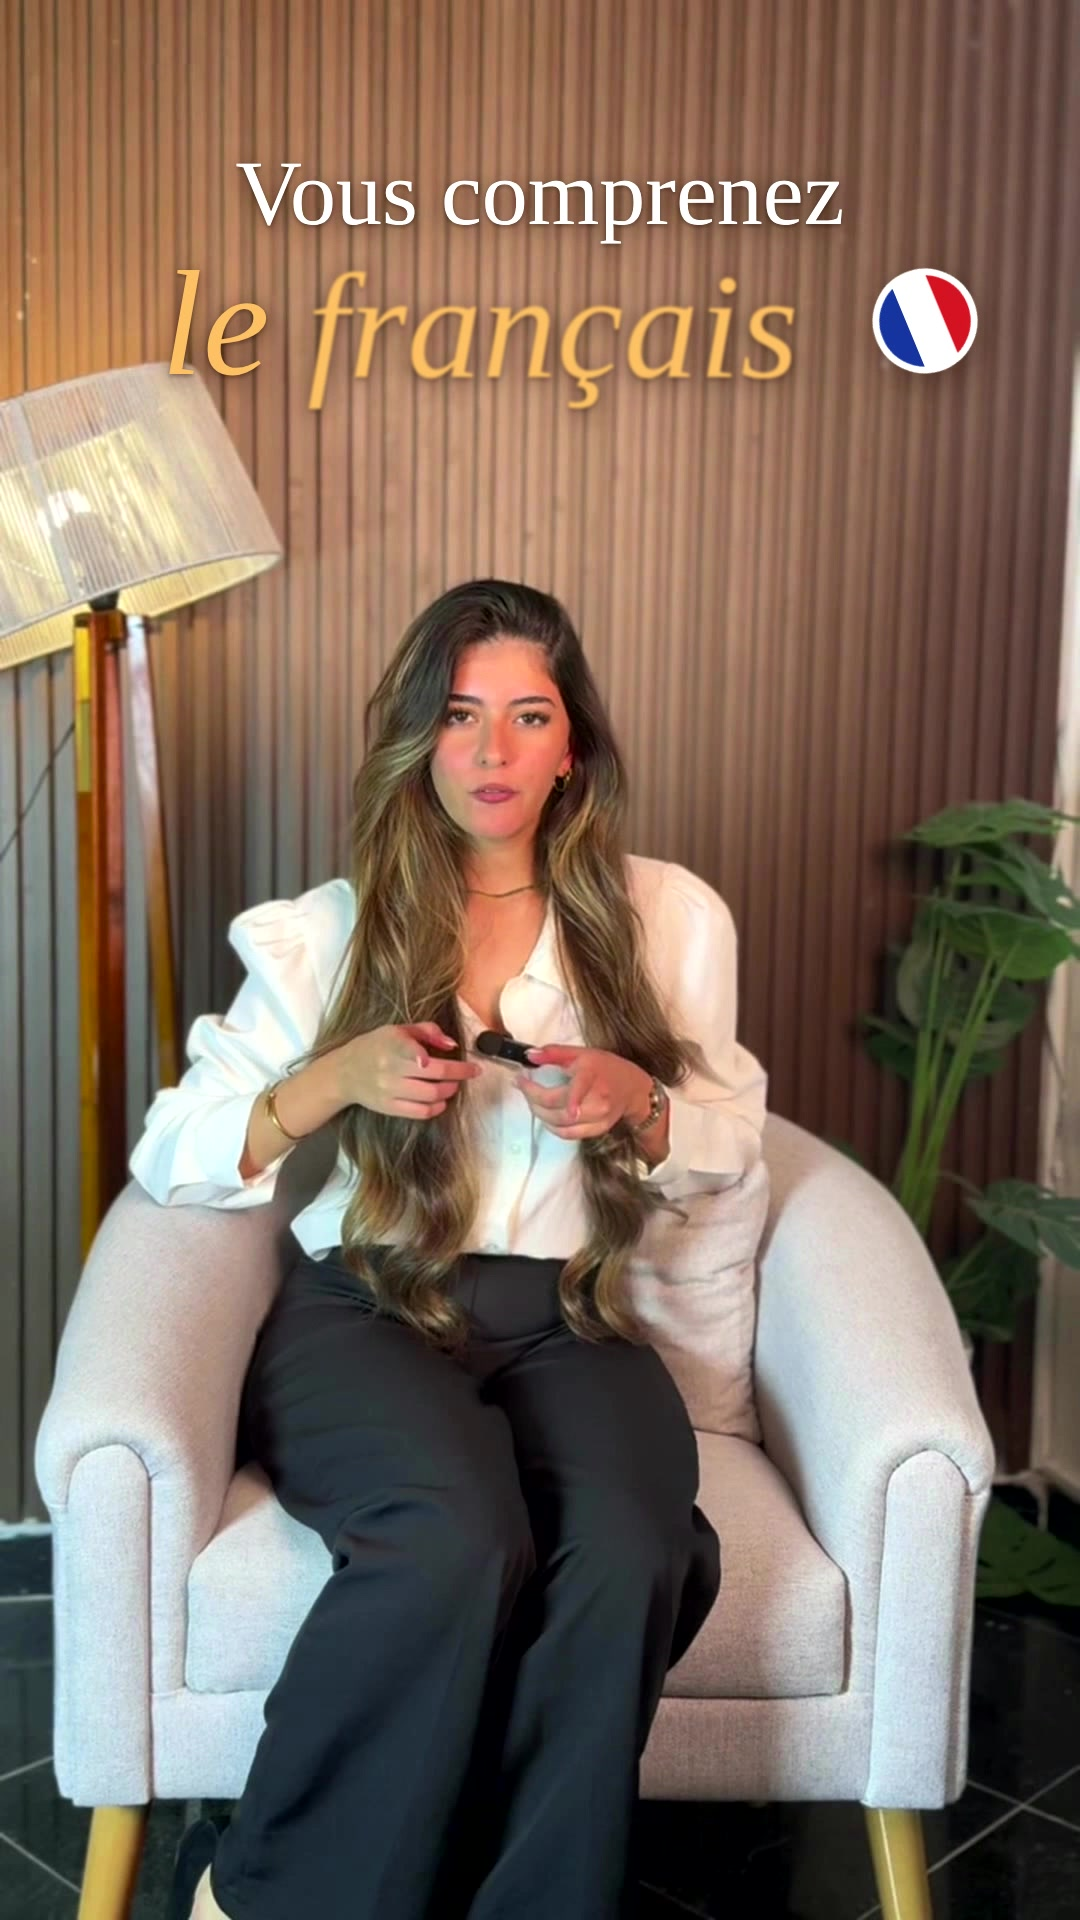
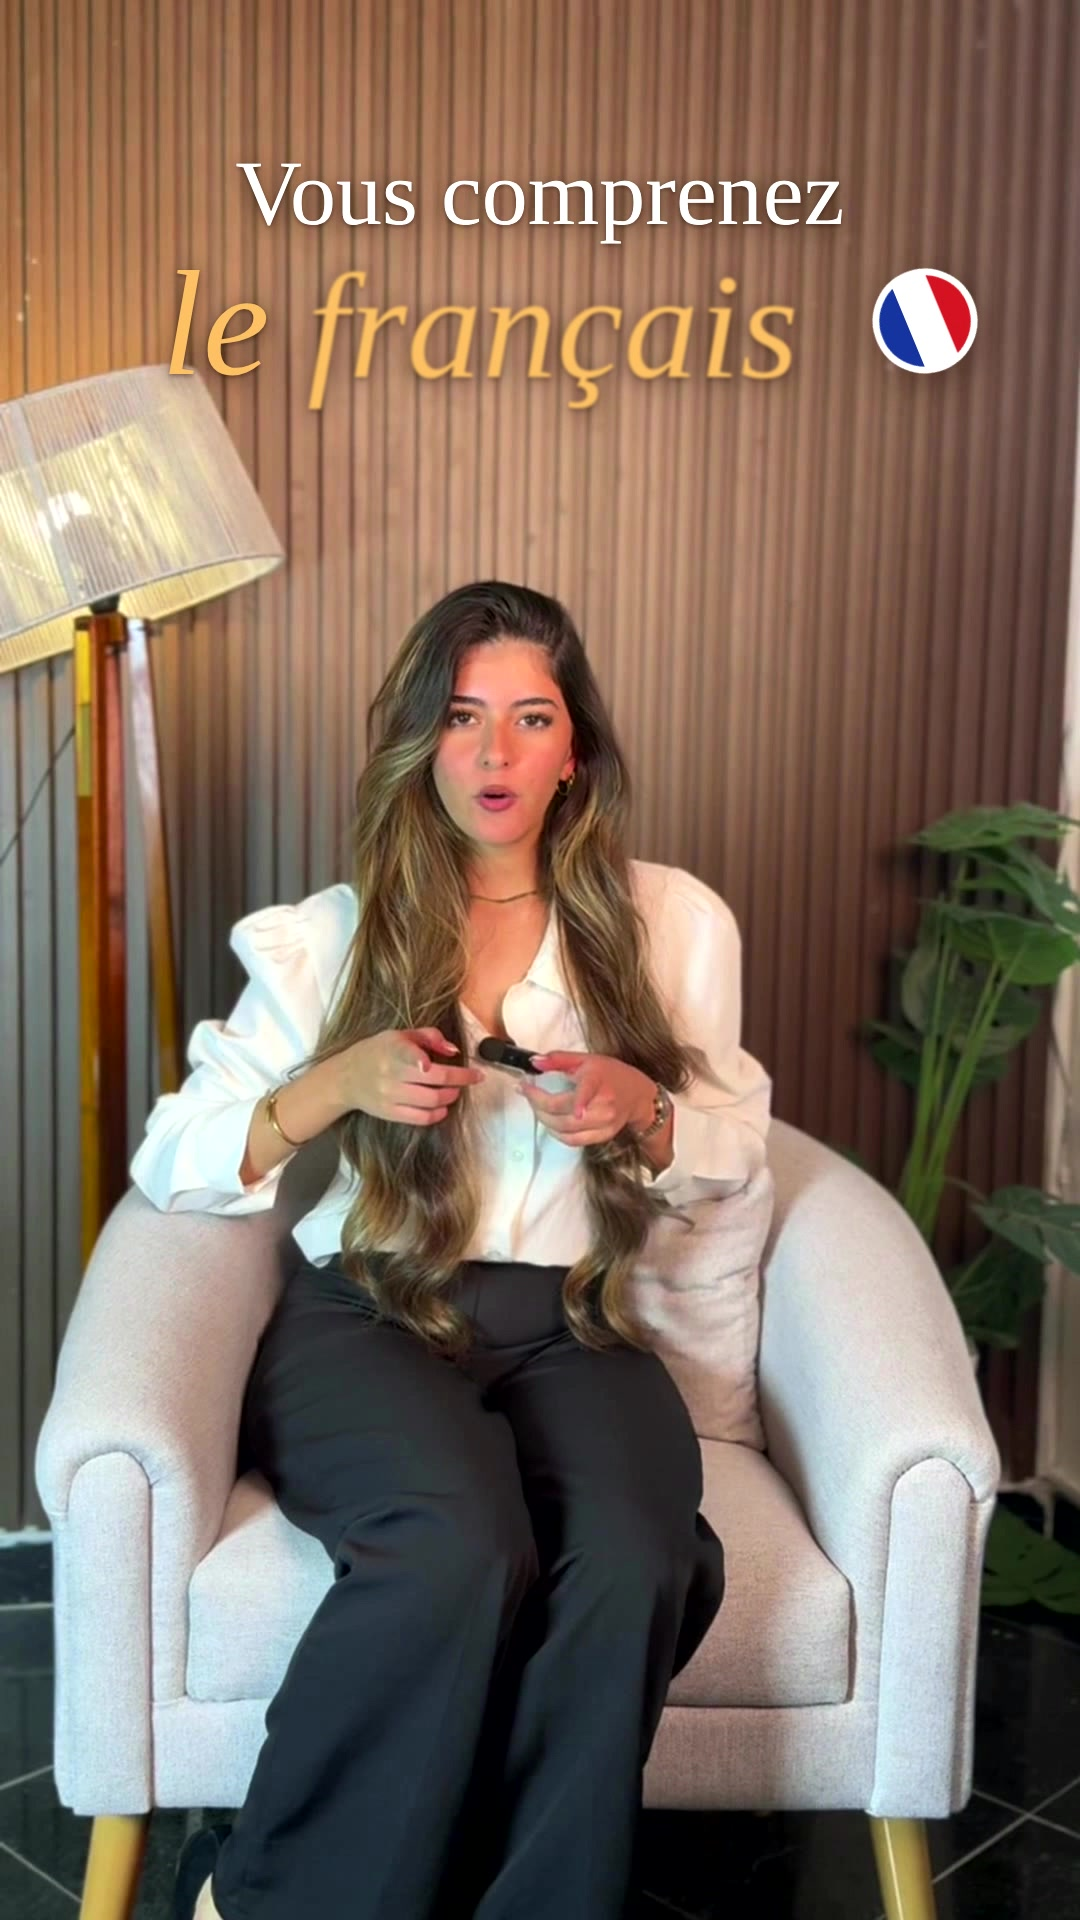
short-fast-track: clean zoom-in / zoom-out transitions, no blur
Claude-Session: https://claude.ai/code/session_01AxhibgRmBs7v8bGQfSccih

diff --git a/video-agent/edits/short-fast-track/source/spec.js b/video-agent/edits/short-fast-track/source/spec.js
@@ -15,7 +15,7 @@ window.SPEC = {
   media: {
     mg: { src: 'assets/mg.mov', width: 1080, alpha: true },
   },
-  cam: { crop: [0, 0, 1080, 1920], eyes: [540, 495] },   // assets/source.mp4 = the take with zoom transitions on its own jump cuts (alternating 1 / 1.15 framing, motion blur)
+  cam: { crop: [0, 0, 1080, 1920], eyes: [540, 495] },   // assets/source.mp4 = the take with zoom transitions on its own jump cuts (alternating 1 / 1.12 framing: ease-in push-in through the cut toward a tight shot, zoom-out settle after the cut toward a wide shot, 0.5 %/s drift, NO blur)
   cut: [],
   hold: [[0, 31.93]],   // no silence cut at all: the creator wants her natural flow (2026-11-09: « beaucoup de coupures, pas naturel »)
 

diff --git a/video-agent/styles/ref/STYLE.md b/video-agent/styles/ref/STYLE.md
@@ -51,3 +51,4 @@ Voix en darija marocaine, sous-titres traduits en français.
 
 ## Rejeté
 - 9 novembre 2026 : les micro-coupes de silence (24 coupes en 30 s) : « pas smooth, pas naturel ». Désormais la prise reste entière, sans aucune coupe.
+- 9 novembre 2026 : le flou de mouvement sur les transitions (« vraiment nul »). Remplacé par des zooms nets : zoom avant à travers la coupe, dézoom après la coupe.
